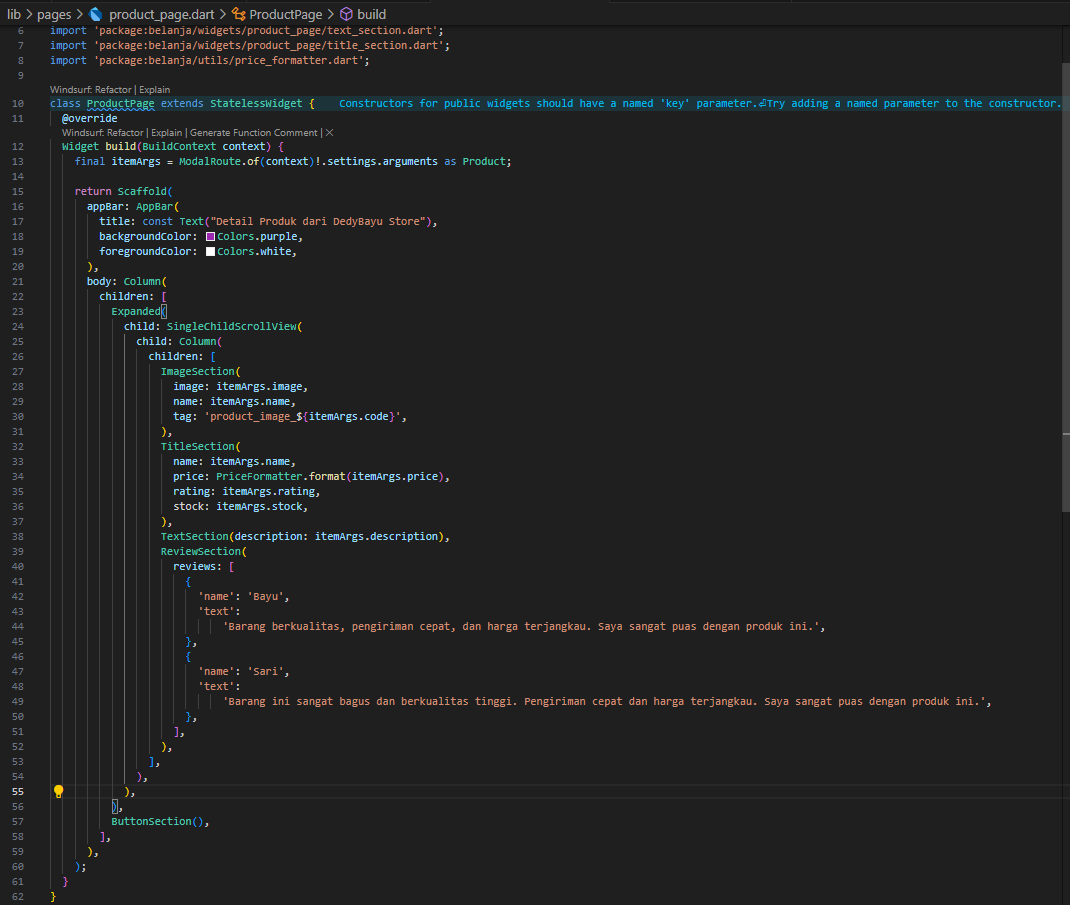
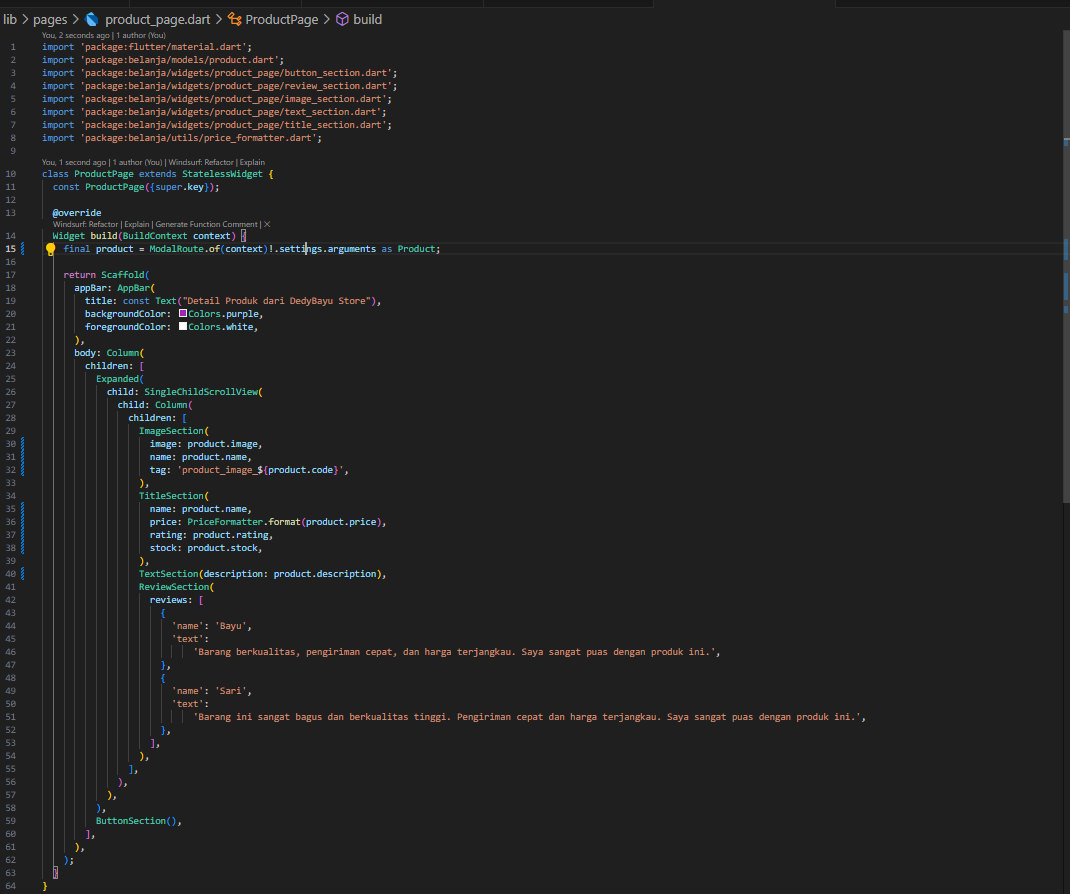
add: GoRouter

diff --git a/codelab06_flutter/belanja/lib/pages/product_page.dart b/codelab06_flutter/belanja/lib/pages/product_page.dart
@@ -6,13 +6,15 @@ import 'package:belanja/widgets/product_page/image_section.dart';
 import 'package:belanja/widgets/product_page/text_section.dart';
 import 'package:belanja/widgets/product_page/title_section.dart';
 import 'package:belanja/utils/price_formatter.dart';
+import 'package:go_router/go_router.dart';
 
 class ProductPage extends StatelessWidget {
   const ProductPage({super.key});
 
   @override
   Widget build(BuildContext context) {
-    final itemArgs = ModalRoute.of(context)!.settings.arguments as Product;
+    // final product = ModalRoute.of(context)!.settings.arguments as Product;
+    final product = GoRouterState.of(context).extra as Product;
 
     return Scaffold(
       appBar: AppBar(
@@ -27,17 +29,17 @@ class ProductPage extends StatelessWidget {
               child: Column(
                 children: [
                   ImageSection(
-                    image: itemArgs.image,
-                    name: itemArgs.name,
-                    tag: 'product_image_${itemArgs.code}',
+                    image: product.image,
+                    name: product.name,
+                    tag: 'product_image_${product.code}',
                   ),
                   TitleSection(
-                    name: itemArgs.name,
-                    price: PriceFormatter.format(itemArgs.price),
-                    rating: itemArgs.rating,
-                    stock: itemArgs.stock,
+                    name: product.name,
+                    price: PriceFormatter.format(product.price),
+                    rating: product.rating,
+                    stock: product.stock,
                   ),
-                  TextSection(description: itemArgs.description),
+                  TextSection(description: product.description),
                   ReviewSection(
                     reviews: [
                       {

diff --git a/codelab06_flutter/belanja/lib/main.dart b/codelab06_flutter/belanja/lib/main.dart
@@ -2,14 +2,49 @@ import 'package:flutter/material.dart';
 import 'package:belanja/pages/home_page.dart';
 import 'package:belanja/pages/product_page.dart';
 import 'package:belanja/pages/preview_image.dart';
+import 'package:go_router/go_router.dart';
 
-void main() {
-  runApp(MaterialApp(
-    initialRoute: '/',
-    routes: {
-      '/': (context) => HomePage(),
-      '/product': (context) => ProductPage(),
-      '/preview-image': (context) => PreviewImage(),
-    },
-  ));
+// void main() {
+//   runApp(MaterialApp(
+//     initialRoute: '/',
+//     routes: {
+//       '/': (context) => HomePage(),
+//       '/product': (context) => ProductPage(),
+//       '/preview-image': (context) => PreviewImage(),
+//     },
+//   ));
+// }
+
+
+void main() => runApp(const MyApp());
+
+final GoRouter _router = GoRouter(
+  initialLocation: '/', 
+  routes: <RouteBase>[
+    GoRoute(
+      path: '/',
+      builder: (BuildContext context, GoRouterState state) => const HomePage(),
+    ),
+    GoRoute(
+      path: '/product',
+      builder: (BuildContext context, GoRouterState state) => const ProductPage(),
+    ),
+    GoRoute(
+      path: '/preview-image',
+      builder: (BuildContext context, GoRouterState state) => const PreviewImage(),
+    ),
+  ],
+);
+
+class MyApp extends StatelessWidget {
+  const MyApp({super.key});
+
+  @override
+  Widget build(BuildContext context) {
+    return MaterialApp.router(
+      routerConfig: _router,
+    );
+  }
 }
+
+

diff --git a/codelab06_flutter/belanja/lib/widgets/product_page/image_section.dart b/codelab06_flutter/belanja/lib/widgets/product_page/image_section.dart
@@ -1,4 +1,5 @@
 import 'package:flutter/material.dart';
+import 'package:go_router/go_router.dart';
 
 class ImageSection extends StatelessWidget {
   const ImageSection({
@@ -21,11 +22,12 @@ class ImageSection extends StatelessWidget {
       ), // margin kanan kiri
       child: InkWell(
         onTap: () {
-          Navigator.pushNamed(
-            context,
-            '/preview-image',
-            arguments: {'image': image, 'title': name, 'tag': tag},
-          );
+          // Navigator.pushNamed(
+          //   context,
+          //   '/preview-image',
+          //   arguments: {'image': image, 'title': name, 'tag': tag},
+          // );
+          context.push('/preview-image', extra: {'image': image, 'title': name, 'tag': tag});
         },
         child: Hero(
           tag: tag,

diff --git a/codelab06_flutter/belanja/lib/widgets/list_product/list_product.dart b/codelab06_flutter/belanja/lib/widgets/list_product/list_product.dart
@@ -2,6 +2,7 @@ import 'package:flutter/material.dart';
 import 'package:belanja/models/product.dart';
 import 'list_product_image.dart';
 import 'list_product_info.dart';
+import 'package:go_router/go_router.dart';
 
 class ListProduct extends StatelessWidget {
   final List<Product> products;
@@ -31,7 +32,8 @@ class ListProduct extends StatelessWidget {
             final product = products[index];
             return InkWell(
               onTap: () {
-                Navigator.pushNamed(context, '/product', arguments: product);
+                // Navigator.pushNamed(context, '/product', arguments: product);
+                context.push('/product', extra: product);
               },
               child: Card(
                 child: Container(

diff --git a/codelab06_flutter/belanja/lib/pages/preview_image.dart b/codelab06_flutter/belanja/lib/pages/preview_image.dart
@@ -1,4 +1,5 @@
 import 'package:flutter/material.dart';
+import 'package:go_router/go_router.dart';
 
 class PreviewImage extends StatelessWidget {
   const PreviewImage({super.key});
@@ -6,7 +7,8 @@ class PreviewImage extends StatelessWidget {
   @override
   Widget build(BuildContext context) {
     // Ambil argument
-    final args = ModalRoute.of(context)?.settings.arguments as Map;
+    // final args = ModalRoute.of(context)?.settings.arguments as Map;
+    final args = GoRouterState.of(context).extra as Map;
 
     final image = args['image'];
     final tag = args['tag'];

diff --git a/codelab06_flutter/README.md b/codelab06_flutter/README.md
@@ -174,6 +174,9 @@ Tentu, ini adalah format markdown dari teks pada gambar tersebut:
 
 5.  Sesuaikan dan modifikasi tampilan sehingga menjadi aplikasi yang menarik. Selain itu, pecah widget menjadi kode yang lebih kecil. Tambahkan **Nama** dan **NIM** di footer aplikasi **belanja** Anda.
 
+<br>
+<hr>
+<br>
 
 # Jawaban soal 3 - 5
 ## Struktur directory
@@ -215,49 +218,126 @@ Saya melakukan perubahan nama **file/class/variabel** dari **Item** menjadi **Pr
 ### models/product.dart
   ![Img_1_1](img/belanja/modifikasi/image_2.png)
 
-  Terdapat penambahan atribut ```code```, ```description```, dan ```image```. Image digunakan untuk menyimpan path gambar, deskripsi menyimpan deskripsi produk, dan code digunakan untuk menyimpan kode produk (saat ini digunakan untuk tag Hero agar unik).
+  Terdapat penambahan atribut ```rating```, ```stock```, ```code```, ```description```, dan ```image```. Image digunakan untuk menyimpan path gambar, deskripsi menyimpan deskripsi produk, dan code digunakan untuk menyimpan kode produk (saat ini digunakan untuk tag Hero agar unik).
 
 ### utils/price_formatter.dart
   ![Img_1_1](img/belanja/modifikasi/image_3.png)
 
+  class ini digunakan untuk mengkonveri data int price menjadi string berformat rupiah Indonesia 
+
 ### pages/home_page.dart
   ![Img_1_1](img/belanja/modifikasi/image_4.png)
+
+  Kode ini digunakan untuk menampung isi dari home page, kode ini memanggil list produk
 
 ### pages/product_page.dart
   ![Img_1_1](img/belanja/modifikasi/image_5.png)
 
+  kode ini digunakan untuk menampilkan detail produk saat produk di list diklik. dalam kode ini akan terbagi menjadi beberapa section yaitu image, title, text, review, button, dan button_with_text. 
+
 ### pages/preview_image.dart
   ![Img_1_1](img/belanja/modifikasi/image_6.png)
+
+  kode ini berfungsi untuk menampilkan gambar penuh ketika gambar di product page di klik
 
 ### widgets/list_product/list_product.dart
   ![Img_1_1](img/belanja/modifikasi/image_7.png)
 
+  kode ini digunakan untuk menampilkan produk berbentuk card untuk dipanggil di home page. terbagi menjadi 2 section yaitu image dan info
+
 ### widgets/list_product/list_product_image.dart
   ![Img_1_1](img/belanja/modifikasi/image_8.png)
+
+  merupakan section dari list_product yang berfungsi untuk menampung/menampilkan gambar produk
 
 ### widgets/list_product/list_product_info.dart
   ![Img_1_1](img/belanja/modifikasi/image_9.png)
 
+  merupakan section dari list_product yang berfungsi untuk menampung/menampilkan info (nama, harga, rating) produk
+
+
 ### widgets/product_page/button_section.dart
   ![Img_1_1](img/belanja/modifikasi/image_10.png)
+
+  merupakan section dari produk page yang berfungsi untuk menampilkan button beli dan masukan ke keranjang, kode ini akan memanggil button_with_text
 
 ### widgets/product_page/button_with_text.dart
   ![Img_1_1](img/belanja/modifikasi/image_11.png)
 
+  kode ini berisi style untuk button masukan ke keranjang dan beli sekarang
+
 ### widgets/product_page/image_section.dart
   ![Img_1_1](img/belanja/modifikasi/image_12.png)
+
+  kode ini merupakan section dari product page yang berfungsi menampilkan gambar
 
 ### widgets/product_page/review_section.dart
   ![Img_1_1](img/belanja/modifikasi/image_13.png)
 
+  kode ini merupakan section dari product page yang berfungsi menampilkan review pembeli
+
 ### widgets/product_page/text_section.dart
   ![Img_1_1](img/belanja/modifikasi/image_14.png)
+
+  kode ini merupakan section dari product page yang berfungsi menampilkan deskripsi produk
 
 ### widgets/product_page/title_section.dart
   ![Img_1_1](img/belanja/modifikasi/image_15.png)
 
+  kode ini merupakan section dari product page yang berfungsi menampilkan nama produk, harga, stok, dan rating
+  
+
 ### widgets/footer_section.dart
   ![Img_1_1](img/belanja/modifikasi/image_16.png)
 
+  kode ini berfungsi untuk menampilkan nama dan nim saya di footer pada home page
+
+### Hasil:
+
+
+<br>
+<hr>
+<br>
 
 6.  Selesaikan Praktikum 5: Navigasi dan Rute tersebut. Cobalah modifikasi menggunakan plugin `go_router`, lalu dokumentasikan dan push ke repository Anda berupa screenshot setiap hasil pekerjaan beserta penjelasannya di file `README.md`. Kumpulkan link commit repository GitHub Anda kepada dosen yang telah disepakati\!
+    
+  - Memodifikasi kode ```main.dart```
+
+      ![Img_1_1](img/belanja/go_router/image_1.png)
+
+      Mengganti route dari menggunakan MaterialApp menjadi GoRouter 
+
+
+  - Memodifikasi kode ```widgets/list_product/list_product.dart```
+
+      ![Img_1_1](img/belanja/go_router/image_2.png)
+
+      Mengganti ```Navigator.pushNamed``` menjadi ```context.push``` untuk route ```/product```
+      
+
+  - Memodifikasi kode ```pages/product_page.dart```
+
+      ![Img_1_1](img/belanja/go_router/image_3.png)
+
+      Mengganti ```ModalRoute``` menjadi ```GoRouterState``` di ProductPage
+
+      
+  - Memodifikasi kode ```widgets/product_page/image_section.dart```
+
+      ![Img_1_1](img/belanja/go_router/image_4.png)
+
+      Mengganti ```Navigator.pushNamed``` menjadi ```context.push``` untuk route ```/preview-image```
+
+      
+  - Memodifikasi kode ```pages/preview_image.dart```
+
+      ![Img_1_1](img/belanja/go_router/image_5.png)
+
+      Mengganti ```ModalRoute``` menjadi ```GoRouterState``` di PreviewImage
+
+<br>
+<hr>
+
+# Hasil Akhir:
+
+
